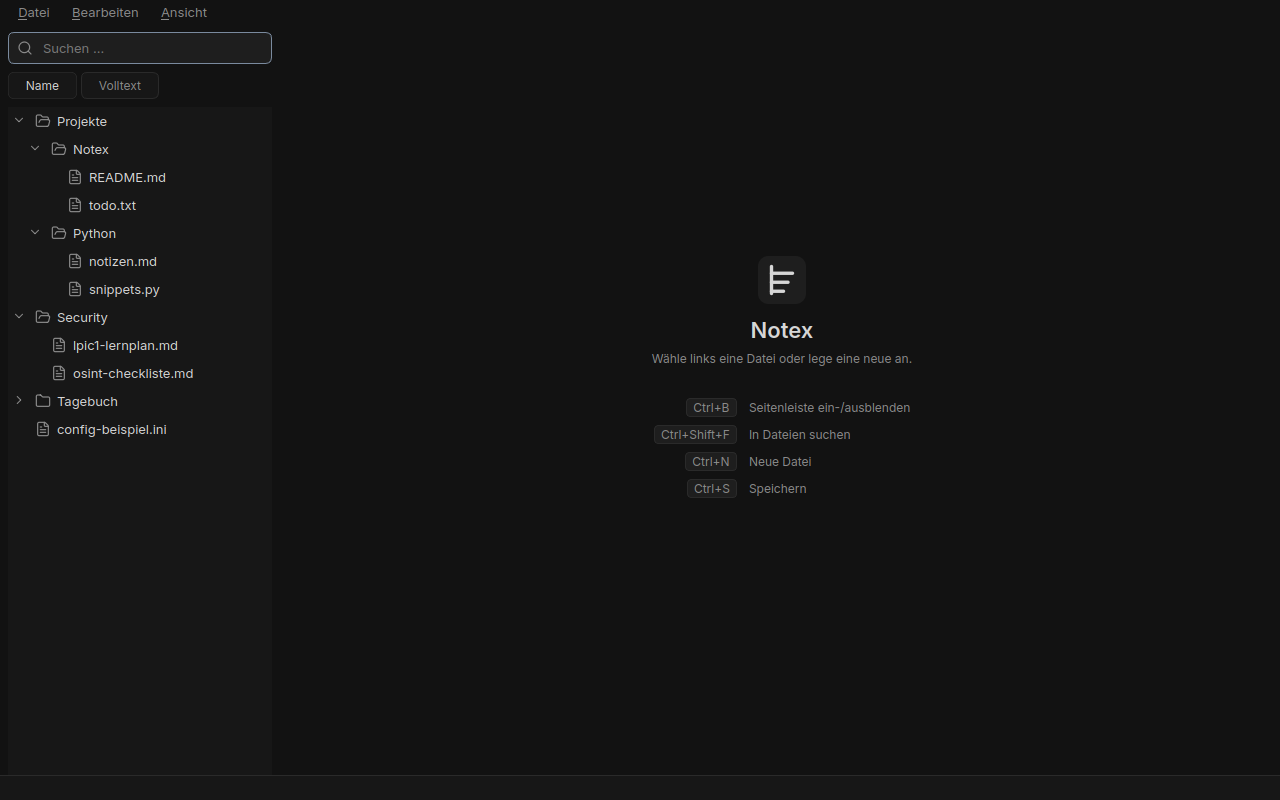
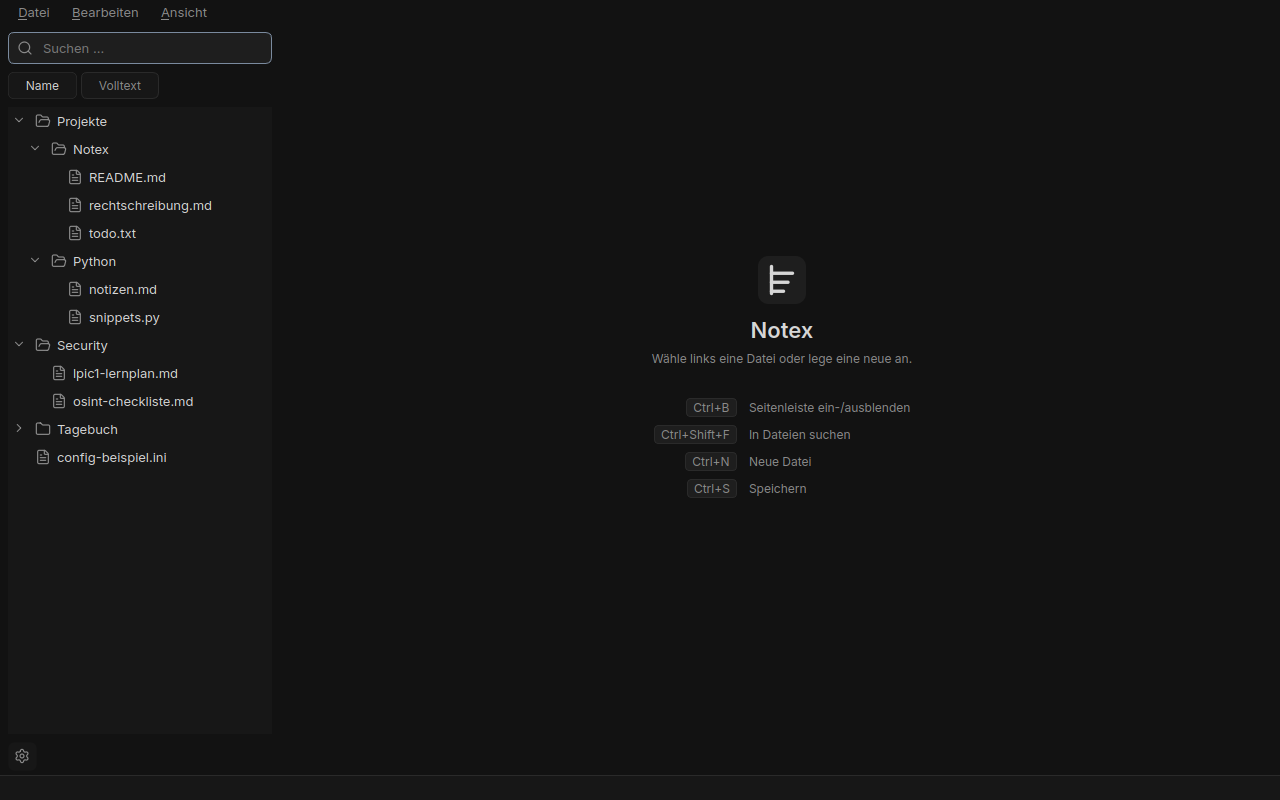
Abschluss: Screenshots für Einstellungen, Presets, Rechtschreibung und Grammatik
- tools/screenshot.py: Einstellungsdialog (Darstellung, Blatt, Rechtschreibung),
  drei Preset-Kombinationen, Rechtschreibfehler mit Kontextmenü; ein kleiner
  Fake-LanguageTool-Server liefert Grammatik-Treffer für den Beispieltext
- docs/: 15 Screenshots, in der README verlinkt
- build.py: Wörterbücher und enchant-Daten im PyInstaller-Bundle

Claude-Session: https://claude.ai/code/session_01GLUSNnjoUSEA3uzyGFPUqk

Changed region(s): [[0.0312, 0.25, 0.1562, 0.5938]]

diff --git a/tools/screenshot.py b/tools/screenshot.py
@@ -6,10 +6,13 @@ Mit NOTEX_SCALE=1.5 lässt sich High-DPI (150 %) prüfen.
 """
 from __future__ import annotations
 
+import json
 import os
 import shutil
 import sys
 import tempfile
+import threading
+from http.server import BaseHTTPRequestHandler, HTTPServer
 from pathlib import Path
 
 os.environ.setdefault("QT_QPA_PLATFORM", "offscreen")
@@ -35,7 +38,50 @@ from notex.ui.settings_dialog import SettingsDialog  # noqa: E402
 OUT = Path(sys.argv[1]) if len(sys.argv) > 1 else ROOT / "docs"
 OUT.mkdir(parents=True, exist_ok=True)
 
+SPELL_SAMPLE = (
+    "# Rechtschreibung\n\n"
+    "Notex prüft Wörter offline mit Hunspell. Ein Tippfehller wie dieser bekommt eine rote Wellenlinie,\n"
+    "und im Kontextmenü stehen Vorschläge. Das Wort das gerade getippt wird bleibt bis zur Pause unmarkiert.\n\n"
+    "URLs wie https://languagetool.org, Pfade wie C:\\Notex\\data und `inline_code` werden ausgelassen.\n\n"
+    "```python\nprint(\"in Codeblöcken wird nichts geprüft\")\n```\n\n"
+    "Grammatik kommt von LanguageTool: Ich weiß daß es geht  hier.\n"
+)
+
+
+class FakeLanguageTool(BaseHTTPRequestHandler):
+    """Antwortet wie LanguageTool, aber nur für den Beispieltext – damit der Screenshot ohne Server geht."""
+
+    def do_POST(self):
+        length = int(self.headers.get("Content-Length", 0))
+        body = self.rfile.read(length).decode("utf-8")
+        matches = []
+        if "geht  hier" in body:
+            text = body.split("text=")[1].split("&")[0]
+            from urllib.parse import unquote_plus
+            text = unquote_plus(text)
+            matches = [
+                {"offset": text.index("daß"), "length": 3, "message": "Seit der Rechtschreibreform 1996 schreibt man „dass“.",
+                 "replacements": [{"value": "dass"}], "rule": {"id": "DASS_MIT_SS", "category": {"name": "Grammatik"}}},
+                {"offset": text.index("geht  hier") + 4, "length": 2, "message": "Möglicherweise doppeltes Leerzeichen.",
+                 "replacements": [{"value": " "}], "rule": {"id": "WHITESPACE_RULE"}},
+            ]
+        payload = json.dumps({"matches": matches}).encode("utf-8")
+        self.send_response(200)
+        self.send_header("Content-Type", "application/json")
+        self.end_headers()
+        self.wfile.write(payload)
+
+    def do_GET(self):
+        self.send_response(200)
+        self.end_headers()
+        self.wfile.write(b"[]")
+
+    def log_message(self, *args):
+        pass
+
+
 SAMPLE = {
+    "Projekte/Notex/rechtschreibung.md": SPELL_SAMPLE,
     "Projekte/Notex/README.md": "# Notex\n\nPortabler Explorer + Editor für Textdateien.\n\n## Ziele\n\n- portabel\n- schnell\n- ruhig im Design\n",
     "Projekte/Notex/todo.txt": "[ ] Suche testen\n[x] Encoding-Erkennung\n[ ] Release v0.1.0 taggen\n[ ] Screenshot für README\n",
     "Projekte/Python/notizen.md": "# Python-Notizen\n\n## Dataclasses\n\nEin `@dataclass` erzeugt __init__, __repr__ und __eq__ automatisch.\nFrozen dataclasses sind unveränderlich – gut für Design-Tokens.\n\n## Pathlib\n\n`Path(__file__).resolve().parent` liefert den Ordner der Datei.\nDas ist die Grundlage für portable Apps: Root relativ zur EXE ermitteln.\n\n## Threads\n\nEin `threading.Event` ist die einfachste Art, einen Worker sauber abzubrechen.\nDie Suche in Notex prüft das Event einmal pro Datei.\n",
@@ -74,6 +120,12 @@ def compose(window, popup, name: str, offset: QPoint) -> None:
 
 def main() -> int:
     write_sample()
+    httpd = HTTPServer(("127.0.0.1", 0), FakeLanguageTool)
+    threading.Thread(target=httpd.serve_forever, daemon=True).start()
+    (WORK / "user_dictionary.txt").write_text("Notex\nHunspell\nLanguageTool\n", encoding="utf-8")
+    (WORK / "config.json").write_text(json.dumps({
+        "grammar": {"enabled": True, "server_url": f"http://127.0.0.1:{httpd.server_port}"},
+    }), encoding="utf-8")
     app = create_app([])
     window = create_window()
     window.resize(1280, 800)
@@ -159,7 +211,31 @@ def main() -> int:
         later(800, lambda: theme_manager().apply(theme_from_preset("Graphit", "Dunkel")))
         later(1000, lambda: save(window, "13-preset-graphit-dunkel"))
         later(1200, lambda: theme_manager().apply(theme_from_preset("Matt", "Weiß")))
-        later(1400, s_end)
+        later(1400, s_spelling)
+
+    def s_spelling():
+        editor = window.tabs.open_file(data / "Projekte/Notex/rechtschreibung.md")
+        window.sidebar.tree.select_path(data / "Projekte/Notex/rechtschreibung.md")
+        editor.goto_line(3, 0, 0)
+        later(2800, lambda: s_spelling_menu(editor))
+
+    def s_spelling_menu(editor):
+        block = editor.document().findBlockByNumber(2)
+        column = block.text().index("Tippfehller") + 4
+        cursor = editor.textCursor()
+        cursor.setPosition(block.position() + column)
+        editor.setTextCursor(cursor)
+        point = editor.cursorRect(cursor).center()
+        menu = editor.build_context_menu(point)
+        menu.show()
+        origin = editor.viewport().mapTo(window, point)
+        compose(window, menu, "14-spellcheck", origin + QPoint(8, 8))
+        menu.close()
+        dialog = SettingsDialog(window, window.theme_store)
+        dialog.show_category("Rechtschreibung")
+        dialog.show()
+        offset = QPoint((window.width() - dialog.width()) // 2, (window.height() - dialog.height()) // 2)
+        later(300, lambda: (compose(window, dialog, "15-settings-spelling", offset), dialog.reject(), later(100, s_end)))
 
     def s_end():
         window.close()
@@ -168,6 +244,8 @@ def main() -> int:
     later(500, s_empty)
     later(25000, app.quit)
     code = app.exec()
+    httpd.shutdown()
+    httpd.server_close()
     shutil.rmtree(WORK, ignore_errors=True)
     return code
 
